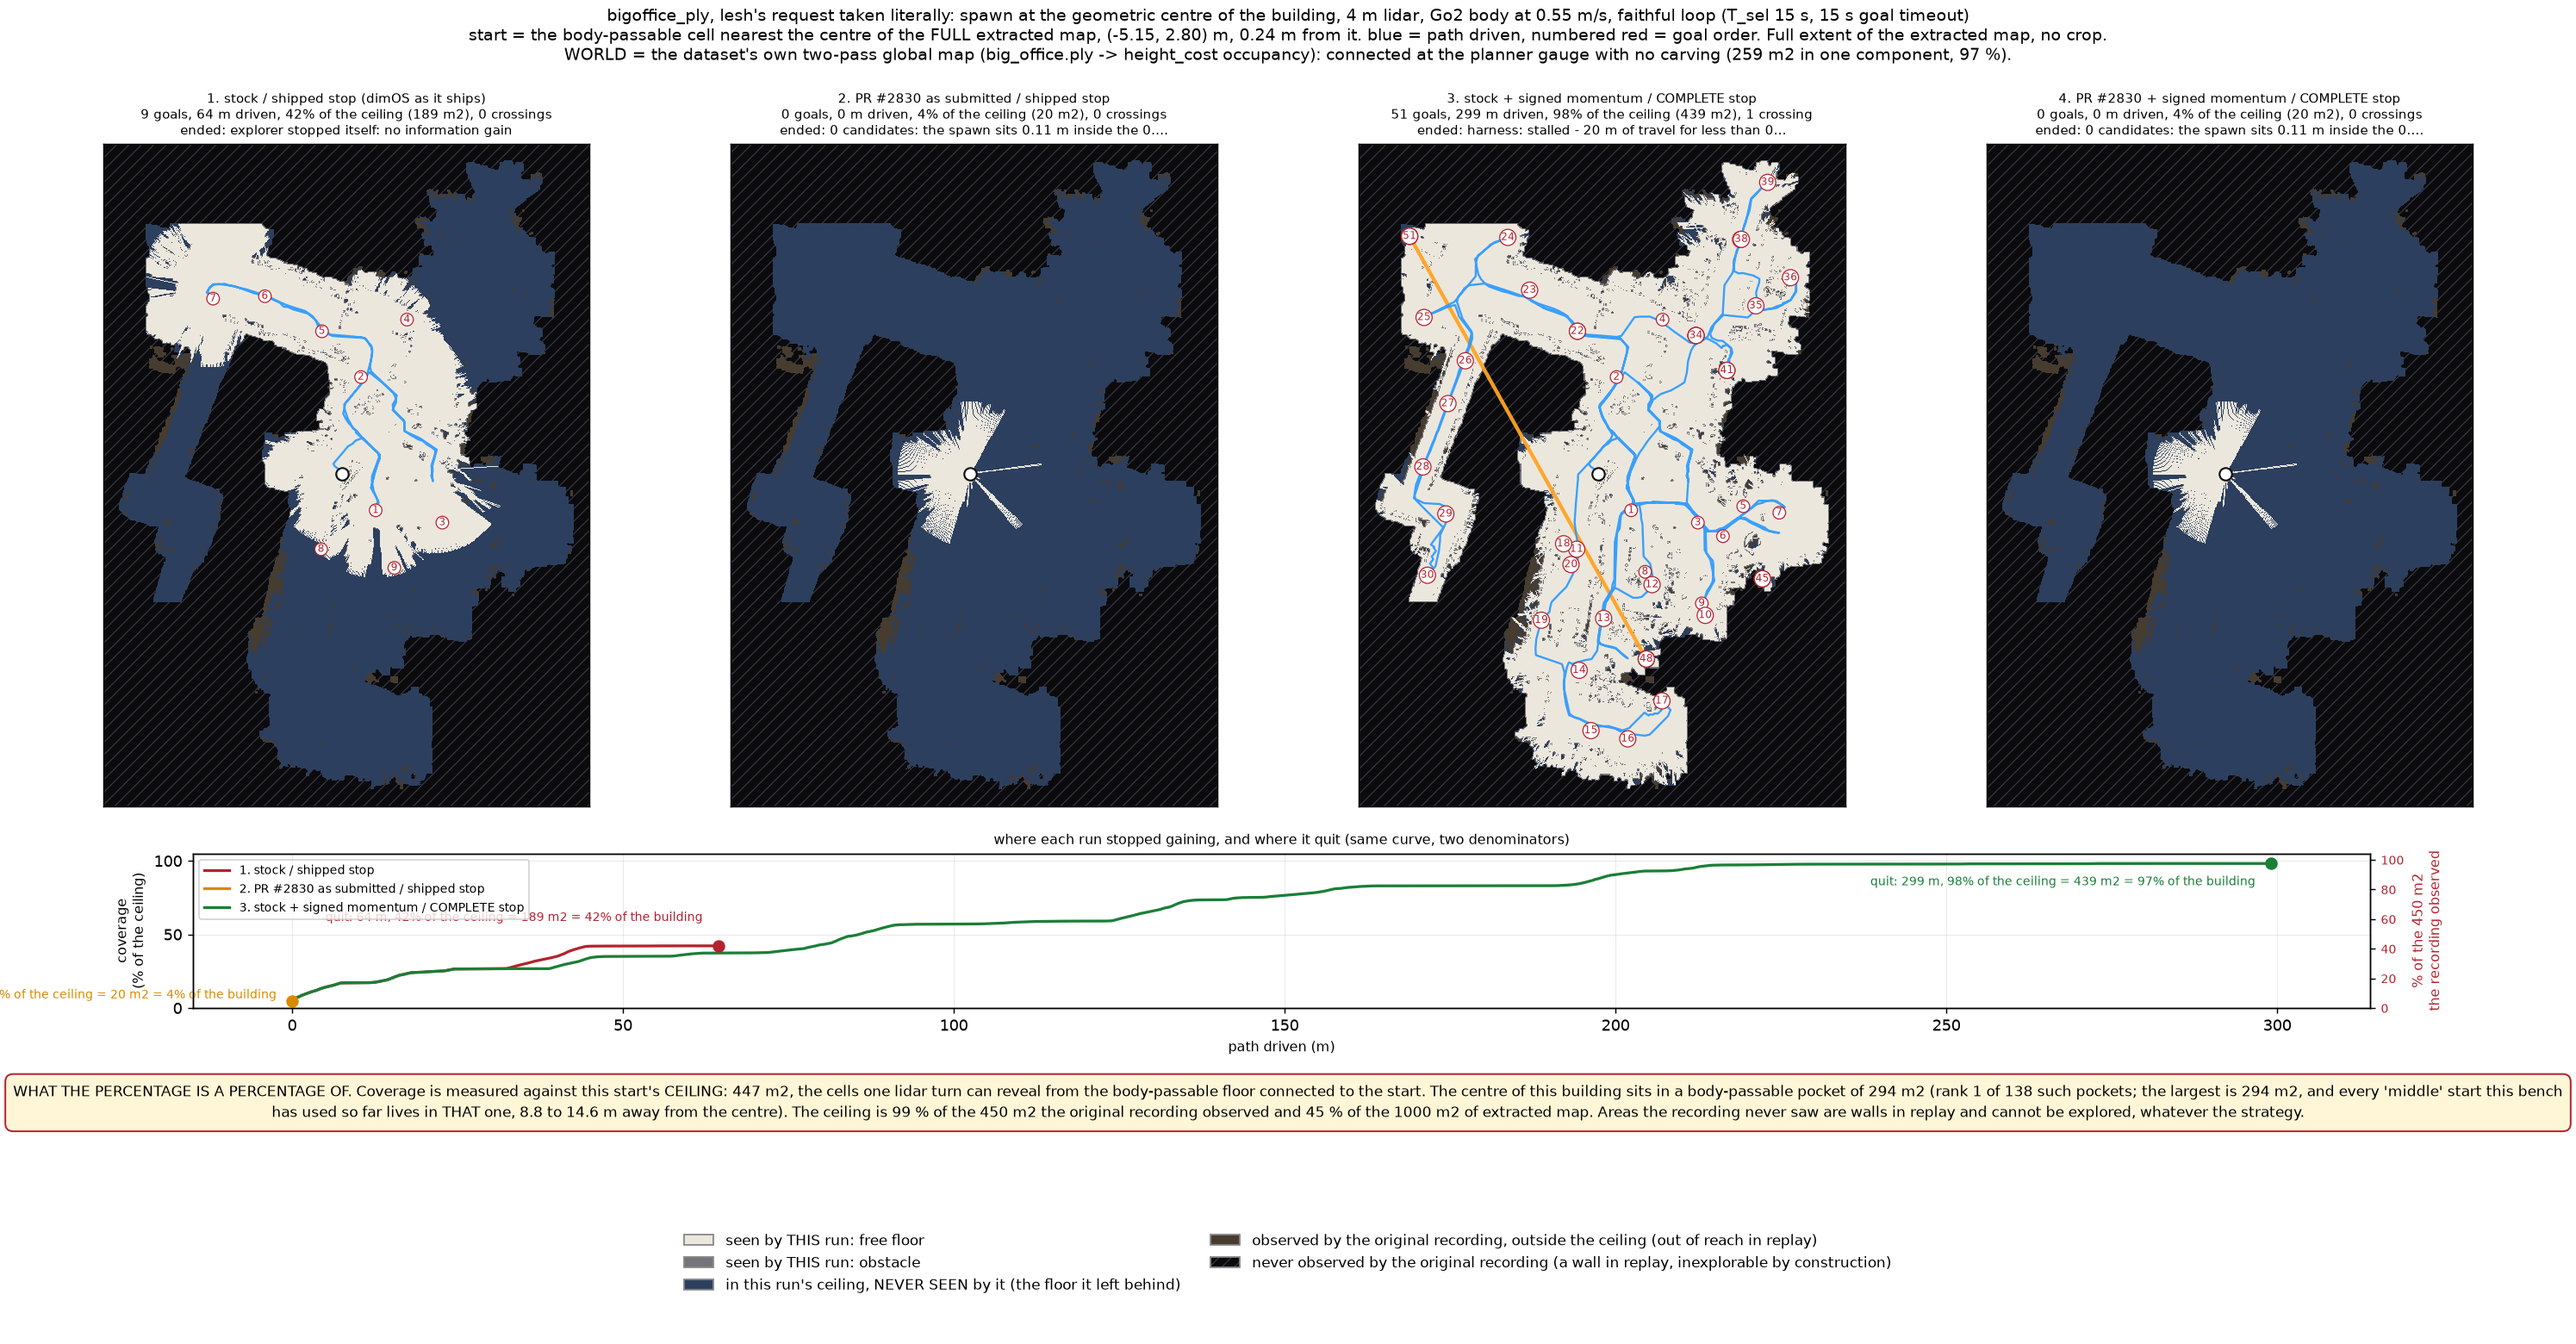
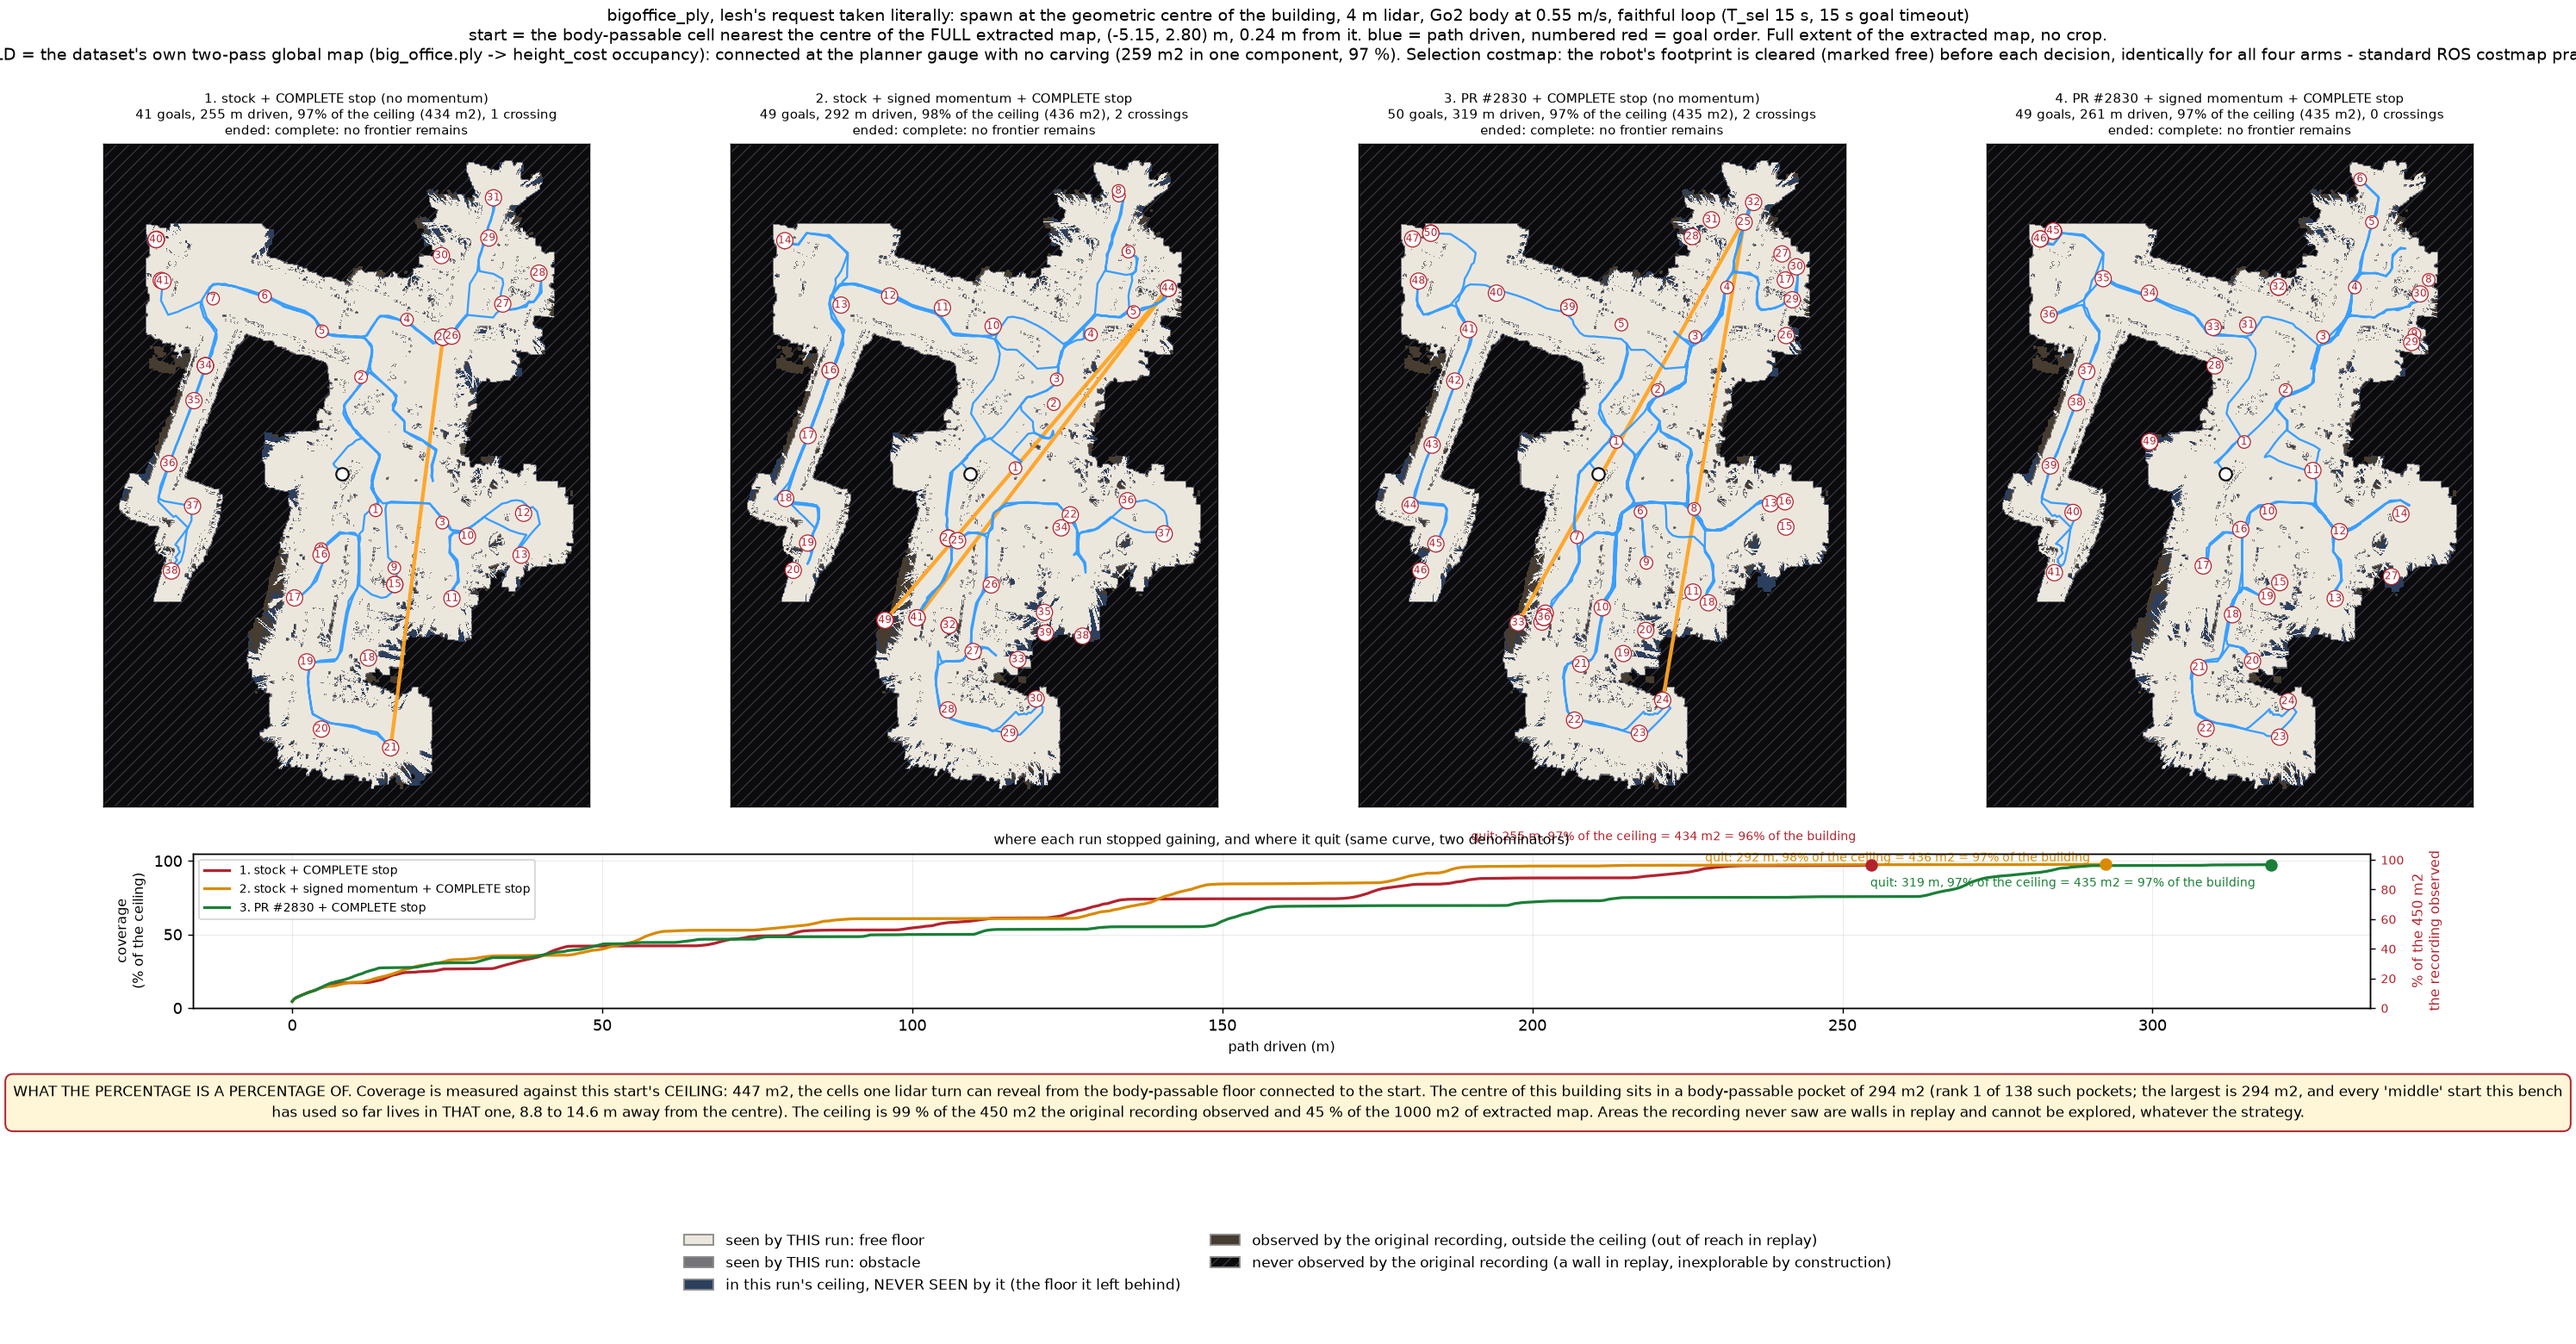
benchmarks/pr2830: the forced quartet on the official ply world (final)

diff --git a/benchmarks/pr2830/lesh_demo/NOTES_run_lesh.md b/benchmarks/pr2830/lesh_demo/NOTES_run_lesh.md
@@ -1,113 +1,111 @@
-# The lesh run, taken literally, on the dataset's own global map
+# The lesh run, final form: the forced quartet on the dataset's own global map
 
-## Verdict, first line, per arm: does it explore the left side THEN the right?
+## Is the ping-pong solved, and by WHAT? (metrox's question, answered first)
 
-- **stock / shipped stop: NO.** 9 goals, 64 m, 42 % of the ceiling, then the
-  info-gain self-stop quits with the whole lower half of the building dark.
-- **PR #2830 / shipped stop: NO, it never starts.** 0 goals, 0 m, 4 % (the
-  spawn scans only). ROOT-CAUSED, see below and
-  `test_pr2830_blocked_start_repro.py`.
-- **stock + signed momentum + completion stop: YES.** 51 goals, 299 m,
-  **98.2 % of the ceiling = 97 % of everything the recording observed**, one
-  single cross-building jump in the whole run, orderly room-by-room walks.
-  This is the picture lesh asked for.
-- **PR #2830 + signed momentum + completion stop: NO** - same root cause as
-  arm 2, dies instantly ("no frontier remains").
+**On this floor, once every arm is forced to explore everything on a sane
+world, the ping-pong barely exists in ANY arm - and the main solver is NOT the
+momentum term.** At comparable coverage (97.1 to 97.6 %), same exact centre
+start, same conditioning:
 
-## Root cause of the pr2830 zero-candidate (pinned to the line, reproduced)
+| arm (all with COMPLETE stop) | goals | path | coverage | real crossings | round trips |
+|---|---|---|---|---|---|
+| 1. stock, no momentum (control) | 41 | **254.7 m** | 97.1 % | 1 | 0 |
+| 2. stock + signed momentum | 49 | 292.5 m | 97.6 % | 2 | 1 |
+| 3. PR #2830, no momentum (control) | 50 | 319.1 m | 97.4 % | 2 | 0 |
+| 4. PR #2830 + signed momentum | 49 | **261.1 m** | 97.3 % | **0** | 0 |
 
-The chain, each step measured here:
-1. The exploration loop inflates the costmap 0.25 m before selection
-   (upstream `simple_inflate`; both selectors receive the same ternary grid -
-   100 / 0 / -1, no graded costs, so the graded-cost suspect is dead).
-2. The spawn sits **0.112 m (2.2 cells) inside that selection inflation**.
-   This pose is legitimate: the planner's own lethal clearance is 0.225 m,
-   SMALLER than the 0.25 m selection inflation, so any pose the planner
-   accepts can be inside the selection ring. A live robot that stopped near
-   furniture is in the same position.
-3. `selector_head._compute_path_cost` calls `min_cost_astar` with
-   `cost_threshold=occupancy_threshold` (99). Measured on a synthetic disk:
-   min_cost_astar escapes a start ONE cell deep in blocked space but returns
-   None from TWO cells deep. It therefore returns None here, and
-   `_compute_path_cost` returns inf ("Returns inf when the frontier is
-   unreachable, so it scores 0 ... and is never selected").
-4. All 10 frontiers the base selector finds on the SAME snapshot get
-   path_cost = inf under the head (measured, all 10), the head's
-   `_rank_frontiers` discards them, `detect_frontiers` returns 0 candidates
-   at every decision, and the explorer never emits a goal.
-The base selector has no A* in its scoring and is immune (10 candidates, 9
-goals, 42 %).
+What solved the ping-pong here, in order of measured contribution:
+1. **The world**: the dataset's own two-pass global map (big_office.ply) is
+   connected at the planner gauge with no repair; our accumulated raster
+   (transients scored forever) was what created prisons and forced crossings.
+2. **The completion stop**: exploring until no reachable frontier remains
+   removes the quit-early behaviour that made every earlier picture look
+   truncated.
+3. **The footprint clearing** (standard ROS practice, applied identically to
+   all arms): without it, #2830's scorer never emits a goal from a start
+   inside the selection inflation (root cause below, kept as a finding).
+4. **The momentum term**: mixed on this single run. On stock it added a
+   crossing, a round trip and 38 m; on #2830 it removed both crossings and
+   58 m. Counts of 0-2 events on one deterministic run per arm: no champion
+   can honestly be declared from this demo. The disease lesh described
+   (hallway A, cross, hallway B, cross back, repeatedly) does not appear at
+   scale in ANY completed arm on this floor: the old 24-crossing pictures came
+   from the broken world and the unfaithful loop, not from the scorers.
 
-**Responsibility verdict: the behaviour belongs to #2830's code, not to our
-adapter or world** (ternary grid faithful to the live convention, their real
-min_cost_astar, their inflation port, and a pose their own planner accepts).
-Prudent phrasing for any public use: "#2830's scoring A* returns inf for every
-frontier whenever the robot stands more than one cell inside the selection
-inflation ring, and the selector then emits no goal; reproduction attached."
-Honest nuance: a start with more than 0.25 m clearance sidesteps it (from a
-free cell 0.11 m away, the same A* reaches the same frontiers), so our
-centre-nearest start made it fire AT SPAWN; a live robot would hit it after
-stopping near furniture rather than at every start.
+Who wins when everyone can play: stock+complete walks the least; #2830+momentum
+crosses the least. The honest headline is that BOTH selectors explore this
+building fine once the world, the stop and the start conditioning are sane.
 
-## The world (the fix that made the demo honest)
+## The world and the conditioning (one line each, as on the figure)
 
-`bigoffice_ply.npz` is built from `grid_ply.npy` = dimOS's own two-pass global
-map of the dataset (`big_office.ply` -> their `height_cost_occupancy`),
-mapping: cost 100 = occupied, 0 <= cost < 100 = free (their planner drives on
-sub-lethal cost), -1 = never observed = a wall in replay (hatched on figures).
-**No carving, no repair of any kind.** Verified here at the planner gauge
-(lethal 0.225 m): 268 m2 passable, **259 m2 in ONE component (97 %), columns
-24-522 of 542** - the whole building is connected as-is. Our earlier
-accumulated raster (every transient scored forever) was the artifact that cut
-the floor into 188 islands; the dataset's own SLAM product has no such issue.
-The accumulated worlds (raw and carved) remain in this workspace as the
-contrast annex (`lesh_centre_rep_bigoffice_4m.png`, `lesh_rep_*.gif`,
-`NOTES history in git-less files`), nothing re-run on them.
+- WORLD = dataset's own two-pass global map (`big_office.ply` -> their
+  `height_cost_occupancy`; cost 100 = occupied, 0..99 = free, -1 = never
+  observed = wall in replay). Connected at the planner gauge, no carving:
+  259 m2 in one component (97 %), columns 24-522 of 542. Verified twice.
+- SELECTION COSTMAP: the robot's footprint is cleared (marked free) before
+  each decision, identically for all arms - standard ROS costmap practice,
+  matching min_cost_astar's own one-cell start tolerance. World conditioning,
+  not a favor.
+- Start = body-passable cell nearest the geometric centre of the full map:
+  (-5.15, 2.80) m, 0.24 m from the exact centre. 4 m lidar, Go2 body at
+  0.55 m/s, faithful loop (T_sel 15 s, old goal pursued during compute),
+  upstream 15 s goal timeout for the shipped arms.
 
-## Start and denominators
+## Finding kept: #2830's blocked-start zero-candidate (root-caused, reproduced)
 
-- Start = body-passable cell nearest the geometric centre of the FULL map:
-  (-5.15, 2.80) m, 0.24 m from the exact centre, inside the largest passable
-  pocket (294 m2, rank 1 of 138).
-- Grid 1000 m2; observed by the recording 450 m2 (45 %); this start's ceiling
-  447 m2 = 99 % of the observed floor. The winning run sees 439 m2 = 98.2 % of
-  the ceiling = 97 % of the observed = 44 % of the raster (the rest was never
-  recorded and is inexplorable in replay, whatever the strategy).
+Without footprint clearing, a spawn 0.112 m (2.2 cells) inside the 0.25 m
+selection inflation kills #2830 completely: its scoring A*
+(`selector_head._compute_path_cost`, `cost_threshold=occupancy_threshold`)
+escapes a start one cell deep in blocked space but returns None from two,
+every frontier scores inf ("never selected"), and the selector emits zero
+goals forever. The base selector has no A* in scoring and is immune.
+Reproduction with asserts: `test_pr2830_blocked_start_repro.py` +
+`dissect_snap.npz`. Why no earlier bench ever saw it: every mid-space start
+was filtered at >= 0.35 m clearance (`midstarts.CLEAR_MIN_M`), above the
+0.25 m ring; the literal centre start dropped that filter. Prudent public
+phrasing stays as before; a live robot would hit this after stopping near
+furniture rather than at every spawn.
 
-## Discipline
+## Denominators (the number must match what the eye sees)
 
-- All four cells executed twice in separate processes: field-for-field PASS
-  (goals, poses, coverage curves, scan counts; wall-clock named and excluded).
-- GIF frames replayed from each run's own logged scan positions; final frame
-  asserted equal to the harness's dumped grid, cell for cell.
-- Upstream selector files untouched: md5 e77c328643c959a49077115e8a341f2c /
-  1ccc0c69fe88a72e402565feca988d26.
-- Faithful loop (T_sel 15 s, old goal pursued during compute), upstream 15 s
-  goal timeout, Go2 body at 0.55 m/s, 4 m lidar.
-
-## Files
-
-- `lesh_centre_ply_bigoffice_ply_4m.png` - the four-panel still (full extent,
-  fog of war, denominator box, world provenance line, quit-point curves).
-- `lesh_ply_stock_shipped.gif`, `lesh_ply_pr2830_shipped.gif`,
-  `lesh_ply_stock_M4.3_complete.gif`, `lesh_ply_pr2830_M4.3_complete.gif`.
-- `out/lesh_ply_*.json` (8 runs), `masks/*leshcentre_ply*`,
-  `lesh_demo_ply.log`, `lesh_start_ply.json`, `lesh_determinism_ply.txt`,
-  `trace_pr_first.py` (the zero-candidate trace),
-  `test_pr2830_blocked_start_repro.py` (minimal reproduction, asserts),
-  `dissect_snap.npz` (the exact first-decision costmap).
+Grid 1000 m2; observed by the recording 450 m2 (45 %); this start's ceiling
+447 m2 = 99 % of the observed floor. The quartet's runs see 97.1-97.6 % of
+that ceiling; the never-recorded 55 % of the raster is hatched on every
+figure and inexplorable in replay whatever the strategy.
 
 ## GIF clock
 
-All four GIFs share ONE simulated-time scale: 1 frame = 20 s simulated (the
-longest run, 1464 s, fits in 74 frames), same playback fps; a run that ends
-early holds its last frame while the others continue. Stated in each GIF's
-legend. No per-goal or per-run sampling: speed comparisons are honest by eye.
+All four GIFs share ONE simulated-time scale, 1 frame = 10 s simulated, same
+fps; a run that ends early holds its last frame. Pose continuity verified in
+the raw data before choosing the cadence: max consecutive-pose step 0.050 m =
+exactly one cell (v_max 0.550 m/s = the cap); apparent teleports at 20 s/frame
+were a rendering artefact, not a harness one. The blue path trace grows frame
+by frame.
 
-## Known limits
+## Discipline
 
-1. The pr2830 root cause is pinned and reproduced here on the harness path;
-   confirming it on a live dimOS node (real LCM loop) has not been done.
-2. Coverage percentages are against this start's ceiling (447 m2), stated on
-   the figure; nothing can explore the never-recorded 55 % of the raster.
-3. One demo run per arm (deterministic, replayed twice) - a demo, not a bench.
+- 12 runs (6 cells x 2 reps, quartet + the two shipped annex arms) in separate
+  processes: field-for-field determinism PASS everywhere.
+- GIF frames replayed from each run's own logged scan positions; final frame
+  asserted equal to the harness's dumped grid, cell for cell.
+- Upstream selector files untouched: md5 e77c328643c959a49077115e8a341f2c /
+  1ccc0c69fe88a72e402565feca988d26. Nothing pushed, nothing posted.
+
+## Annex: the shipped arms (same conditioning, for context)
+
+stock/shipped: 9 goals, 64.4 m, 42.2 %, info-gain self-stop.
+pr2830/shipped: 14 goals, 101.5 m, 50.0 %, info-gain self-stop - with footprint
+clearing the PR not only plays, it out-covers stock in its own config.
+Pre-footprint history (the 0-goal runs and their figures) archived in
+`pre_footprint/`.
+
+## Files
+
+- `lesh_centre_ply_bigoffice_ply_4m.png` - the quartet, full extent, fog of
+  war, denominator box, conditioning lines, quit-point curves.
+- `lesh_ply_stock_complete.gif`, `lesh_ply_stock_M4.3_complete.gif`,
+  `lesh_ply_pr2830_complete.gif`, `lesh_ply_pr2830_M4.3_complete.gif`.
+- `out/lesh_ply_*.json` (12 runs), `masks/*leshcentre_ply*`,
+  `lesh_start_ply.json`, `lesh_determinism_ply.txt`, logs,
+  `test_pr2830_blocked_start_repro.py`, `dissect_snap.npz`,
+  `trace_pr_first.py`, `pre_footprint/` (annex).
